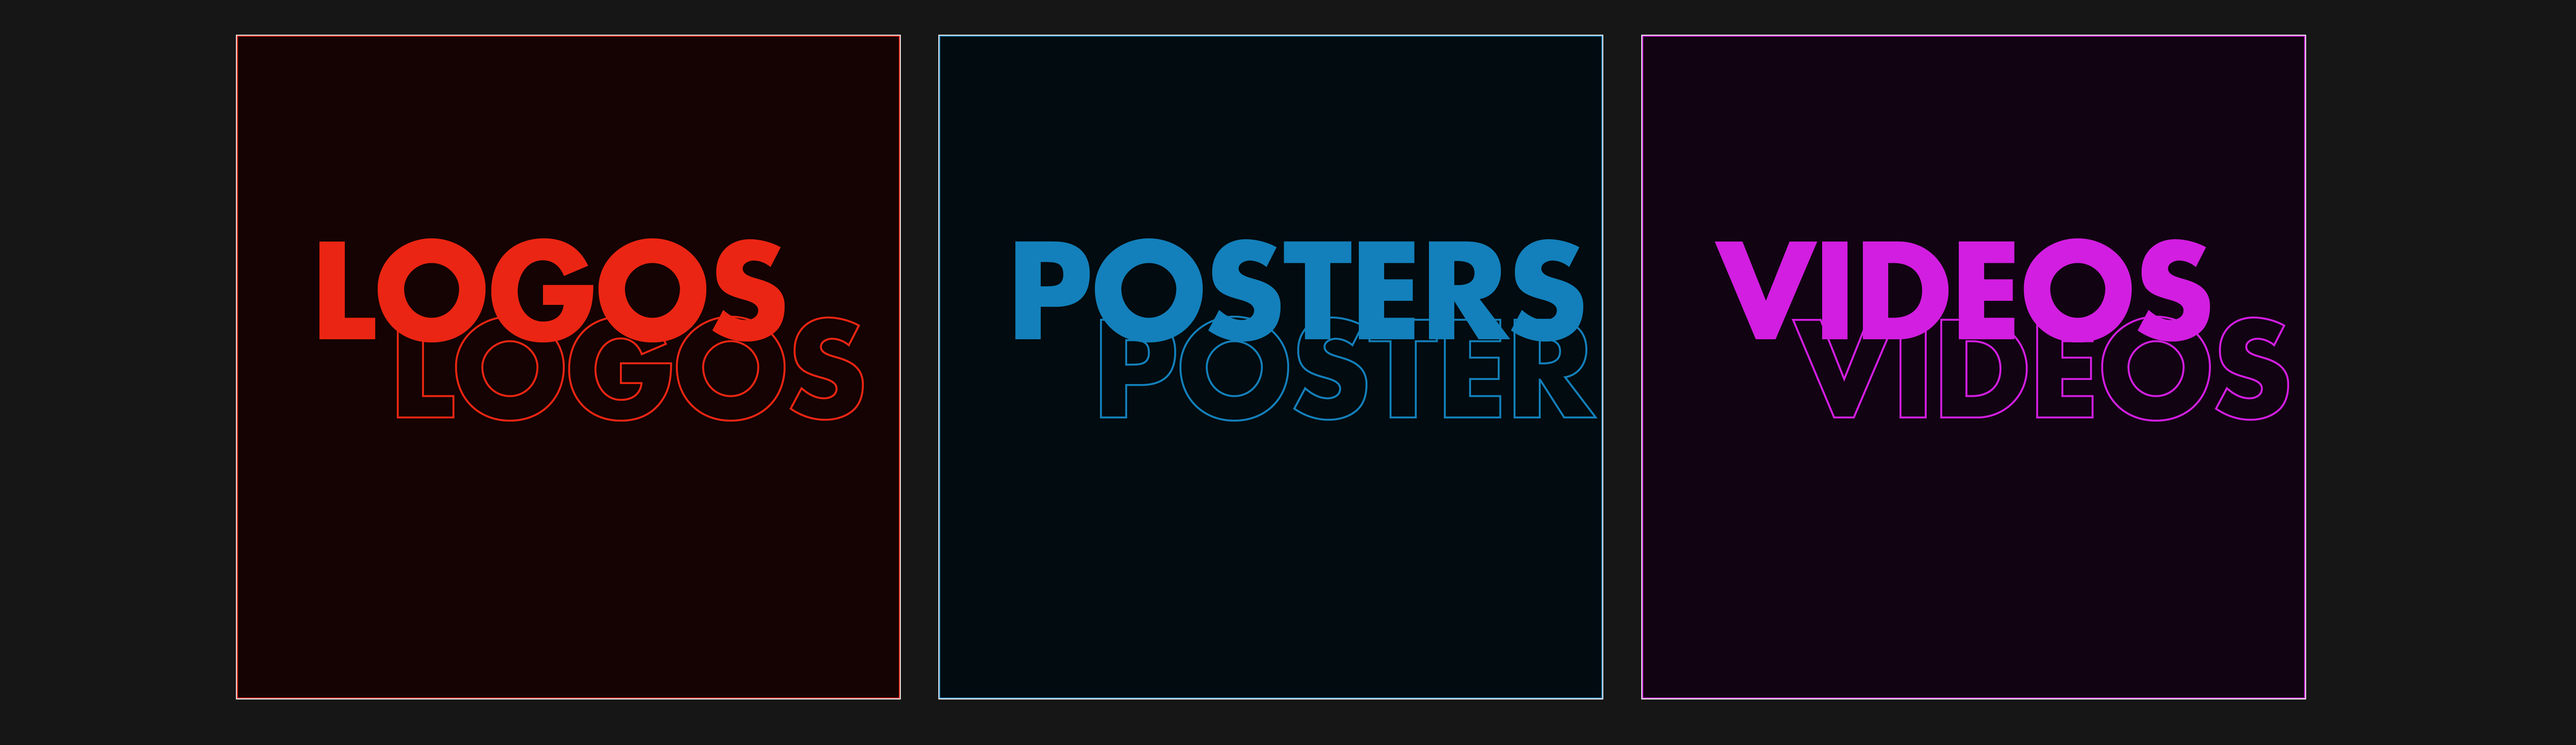
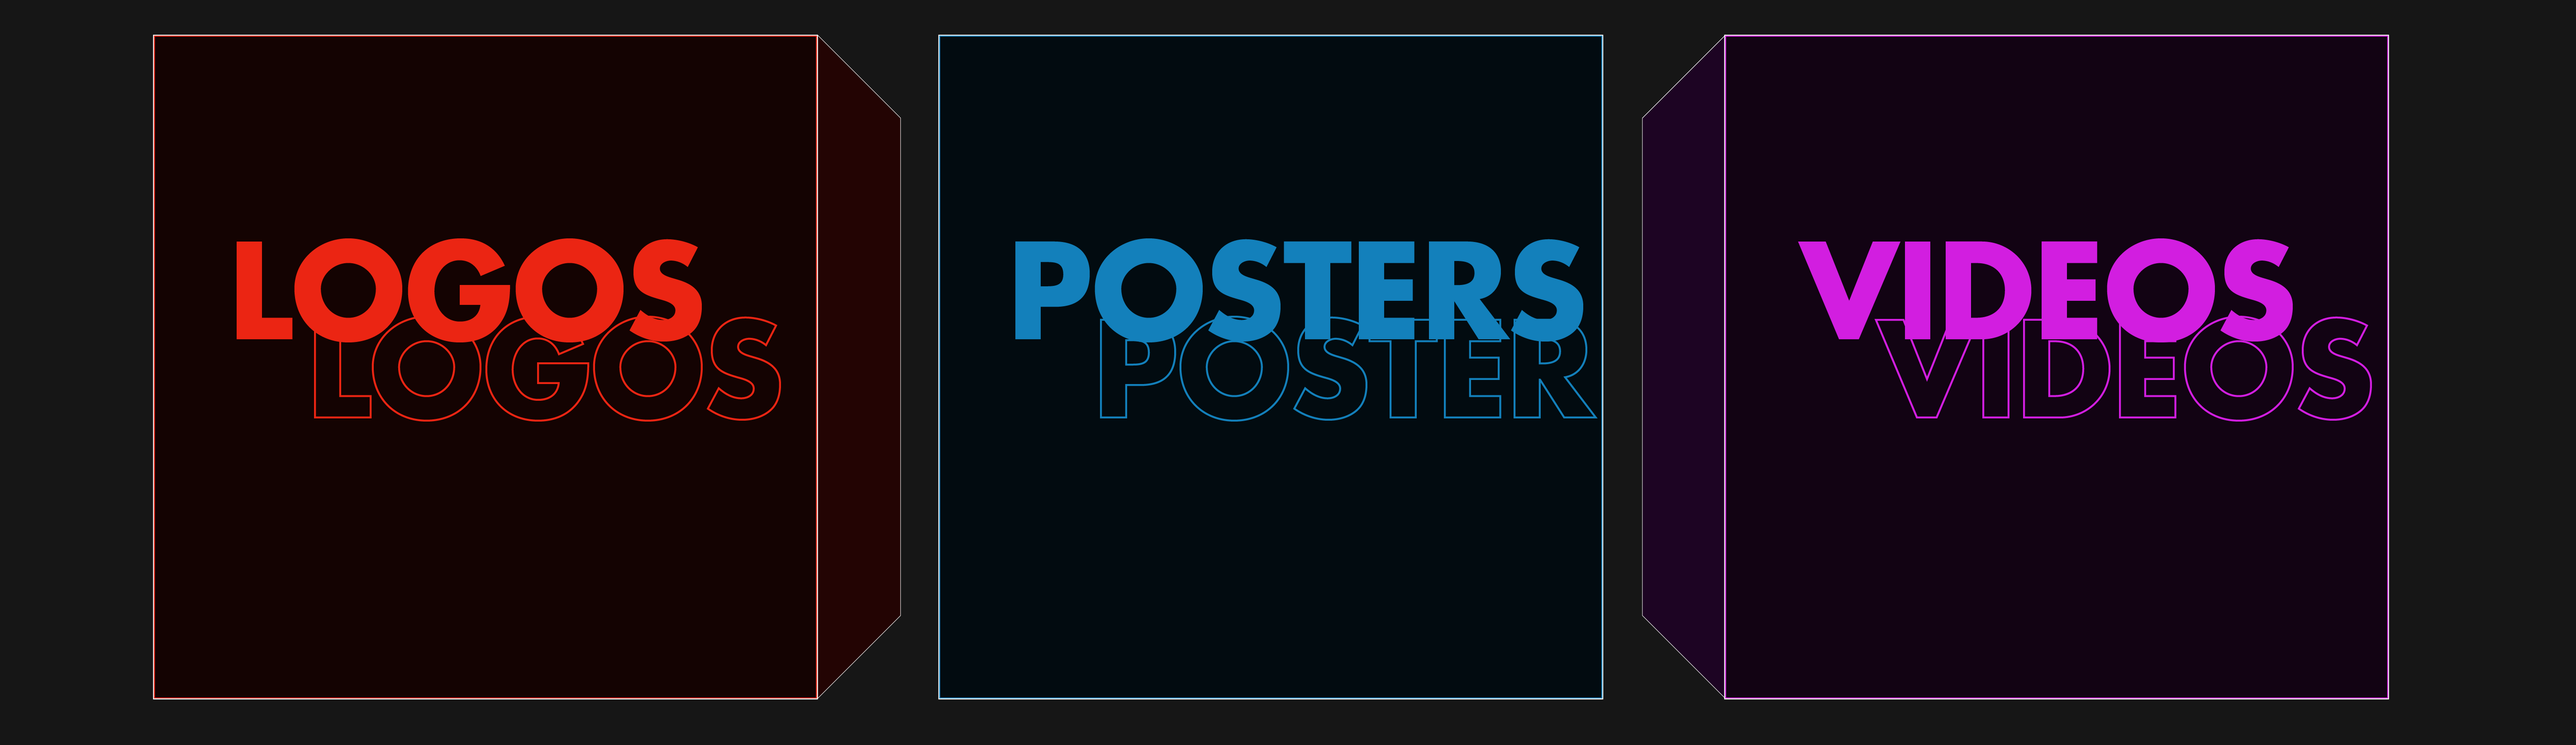
Site Launch

diff --git a/script.js b/script.js
@@ -1,3 +1,4 @@
+//-------------------------------------------MAIN NAV----------------------------------------
 $(".clickBox-home").on('click', function(){
 	window.location.href = "index.html";
 })
@@ -6,18 +7,19 @@ $(".clickBox-work").on('click', function(){
 	window.location.href = "index.html";
 })
 
-$(".clickBox-contact").on('click', function(){
-	alert()
+$(".clickBox-about").on('click', function(){
+	window.location.href = "about.html";
 })
 
 $(".clickBox-testimonials").on('click', function(){
-	alert()
+	window.location.href = "testimonials.html";
 })
 
 $(".clickBox-services").on('click', function(){
-	alert()
+	window.location.href = "testimonials.html";
 })
 
+//-------------------------------------------3 BOXES----------------------------------------
 $(".clickBox-logo").on('click', function(){
 	window.location.href = "logos.html";
 })
@@ -30,21 +32,24 @@ $(".clickBox-video").on('click', function(){
 	window.location.href = "videos.html";
 })
 
-$(".clickBox-feature01").on('click', function(){
-	alert()
-})
-$(".clickBox-feature02").on('click', function(){
-	alert()
-})
-$(".clickBox-feature03").on('click', function(){
-	alert()
-})
-$(".clickBox-feature04").on('click', function(){
-	alert()
-})
-$(".clickBox-feature05").on('click', function(){
-	alert()
-})
+//-------------------------------------------FEATURES----------------------------------------
+// $(".clickBox-feature01").on('click', function(){
+// 	alert()
+// })
+// $(".clickBox-feature02").on('click', function(){
+// 	alert()
+// })
+// $(".clickBox-feature03").on('click', function(){
+// 	alert()
+// })
+// $(".clickBox-feature04").on('click', function(){
+// 	alert()
+// })
+// $(".clickBox-feature05").on('click', function(){
+// 	alert()
+// })
+
+//-------------------------------------------FOOTER----------------------------------------
 $(".clickBox-email").on('click', function(){
 	alert("I look forward to hearing from you \n please send me an email at \n jtkfrancisco@gmail.com")
 })

diff --git a/index.html b/index.html
@@ -9,7 +9,7 @@
 		<div class=clickContainer>
 			<div class="clickBox-home"></div>
 			<div class="clickBox-work"></div>
-			<div class="clickBox-contact"></div>
+			<div class="clickBox-about"></div>
 			<div class="clickBox-testimonials"></div>
 			<div class="clickBox-services"></div>
 		<img class="Background_img" src="page_Header-Main.png">
@@ -29,9 +29,9 @@
 			<img class="Background_img" src="page_Menu-Categories.png">
 		</div>
 
-		<div class="spacer"></div>
 
 		<!-- About Me  -->
+		<div class="spacer" id="About"></div>
 		<div class=clickContainer>
 			<div class="textBox-email">JTKfrancisco@gmail.com</div>
 			<img class="Background_img" src="page_About.png">
@@ -63,6 +63,11 @@
 			</div>
 			<img class="Background_img" src="page_Features.png">
 		</div>
+
+		<div class="spacer"></div>
+
+		<!-- Testimonials -->
+		<img class="Background_img" id="Testimonials" src="page_Testimonials.png">
 
 		<!-- Footer  -->
 		<div class=clickContainer>

diff --git a/about.html b/about.html
@@ -1,0 +1,32 @@
+<!DOCTYPE html>
+<html>
+<head>
+	<title>JF ABOUT</title>
+	<link rel = "stylesheet" type = "text/css" href = "style.css"/>
+</head>
+<body>
+		<!-- Main Nav  -->
+		<div class=clickContainer>
+			<div class="clickBox-home"></div>
+			<div class="clickBox-work"></div>
+			<div class="clickBox-about"></div>
+			<div class="clickBox-testimonials"></div>
+			<div class="clickBox-services"></div>
+		<img class="Background_img" src="page_Header-Main.png">
+		</div>
+
+		<!-- Content -->
+		<img class="Background_img" src="page_About-15.png">
+		<img class="Background_img" src="page_Method.png">
+
+		<!-- Footer  -->
+		<div class=clickContainer>
+			<div class="clickBox-email"></div>
+			<div class="clickBox-instagram"></div>
+			<img class="Background_img" src="page_Footer.png">
+		</div>
+
+	<script src="https://ajax.googleapis.com/ajax/libs/jquery/3.4.0/jquery.min.js"></script>
+	<script src="script.js"></script>
+</body>
+</html>

diff --git a/testimonials.html b/testimonials.html
@@ -1,0 +1,31 @@
+<!DOCTYPE html>
+<html>
+<head>
+	<title>JF TESTIMONIALS</title>
+	<link rel = "stylesheet" type = "text/css" href = "style.css"/>
+</head>
+<body>
+		<!-- Main Nav  -->
+		<div class=clickContainer>
+			<div class="clickBox-home"></div>
+			<div class="clickBox-work"></div>
+			<div class="clickBox-about"></div>
+			<div class="clickBox-testimonials"></div>
+			<div class="clickBox-services"></div>
+		<img class="Background_img" src="page_Header-Main.png">
+		</div>
+
+		<!-- Content -->
+		<img class="Background_img" src="page_Testimonials-Full.png">
+
+		<!-- Footer  -->
+		<div class=clickContainer>
+			<div class="clickBox-email"></div>
+			<div class="clickBox-instagram"></div>
+			<img class="Background_img" src="page_Footer.png">
+		</div>
+
+	<script src="https://ajax.googleapis.com/ajax/libs/jquery/3.4.0/jquery.min.js"></script>
+	<script src="script.js"></script>
+</body>
+</html>

diff --git a/services.html b/services.html
@@ -1,0 +1,31 @@
+<!DOCTYPE html>
+<html>
+<head>
+	<title>JF SERVICES</title>
+	<link rel = "stylesheet" type = "text/css" href = "style.css"/>
+</head>
+<body>
+		<!-- Main Nav  -->
+		<div class=clickContainer>
+			<div class="clickBox-home"></div>
+			<div class="clickBox-work"></div>
+			<div class="clickBox-about"></div>
+			<div class="clickBox-testimonials"></div>
+			<div class="clickBox-services"></div>
+		<img class="Background_img" src="page_Header-Main.png">
+		</div>
+
+		<!-- Content -->
+		<img class="Background_img" src="page_Services.png">
+
+		<!-- Footer  -->
+		<div class=clickContainer>
+			<div class="clickBox-email"></div>
+			<div class="clickBox-instagram"></div>
+			<img class="Background_img" src="page_Footer.png">
+		</div>
+
+	<script src="https://ajax.googleapis.com/ajax/libs/jquery/3.4.0/jquery.min.js"></script>
+	<script src="script.js"></script>
+</body>
+</html>

diff --git a/style.css b/style.css
@@ -21,7 +21,7 @@ html{
 	border: 0;
 }
 .spacer{
-	height: 230px;
+	height: 190px;
 	width: 100%;
 	margin: 0;
 	padding: 0;
@@ -52,14 +52,14 @@ div.clickBox-work:hover{
 	border-bottom: 2px solid white;
 }
 
-.clickBox-contact{
-	position: absolute;
-    width: 4%;
+.clickBox-about{
+    position: absolute;
+    width: 3.2%;
     height: 14.6%;
     top: 65%;
-    left: 72.3%;
+    left: 72.6%;
 }
-div.clickBox-contact:hover{
+div.clickBox-about:hover{
 	border-bottom: 2px solid white;
 }
 
@@ -103,7 +103,7 @@ div.clickBox-services:hover{
     width: 25.6%;
     height: 87.6%;
     top: 5%;
-    left: 9.2%;
+    left: 6%;
     z-index: 100;
 }
 div.clickBox-logo:hover{
@@ -134,7 +134,7 @@ div.clickBox-poster:hover{
     width: 25.6%;
     height: 87.6%;
     top: 5%;
-    left: 63.8%;
+    left: 67%;
 }
 div.clickBox-video:hover{
 	background-color: purple;

diff --git a/logos.html b/logos.html
@@ -9,14 +9,16 @@
 		<div class=clickContainer>
 			<div class="clickBox-home"></div>
 			<div class="clickBox-work"></div>
-			<div class="clickBox-contact"></div>
+			<div class="clickBox-about"></div>
 			<div class="clickBox-testimonials"></div>
 			<div class="clickBox-services"></div>
 		<img class="Background_img" src="page_Header-Main.png">
 		</div>
 
 		<!-- Content -->
-		<img class="Background_img" src="page_Logos.png">
+		<img class="Background_img" src="page_Logos01.png">
+		<img class="Background_img" src="page_Logos02.png">
+		<img class="Background_img" src="page_Logos03.png">
 
 		<!-- Footer  -->
 		<div class=clickContainer>

diff --git a/posters.html b/posters.html
@@ -9,7 +9,7 @@
 		<div class=clickContainer>
 			<div class="clickBox-home"></div>
 			<div class="clickBox-work"></div>
-			<div class="clickBox-contact"></div>
+			<div class="clickBox-about"></div>
 			<div class="clickBox-testimonials"></div>
 			<div class="clickBox-services"></div>
 		<img class="Background_img" src="page_Header-Main.png">
